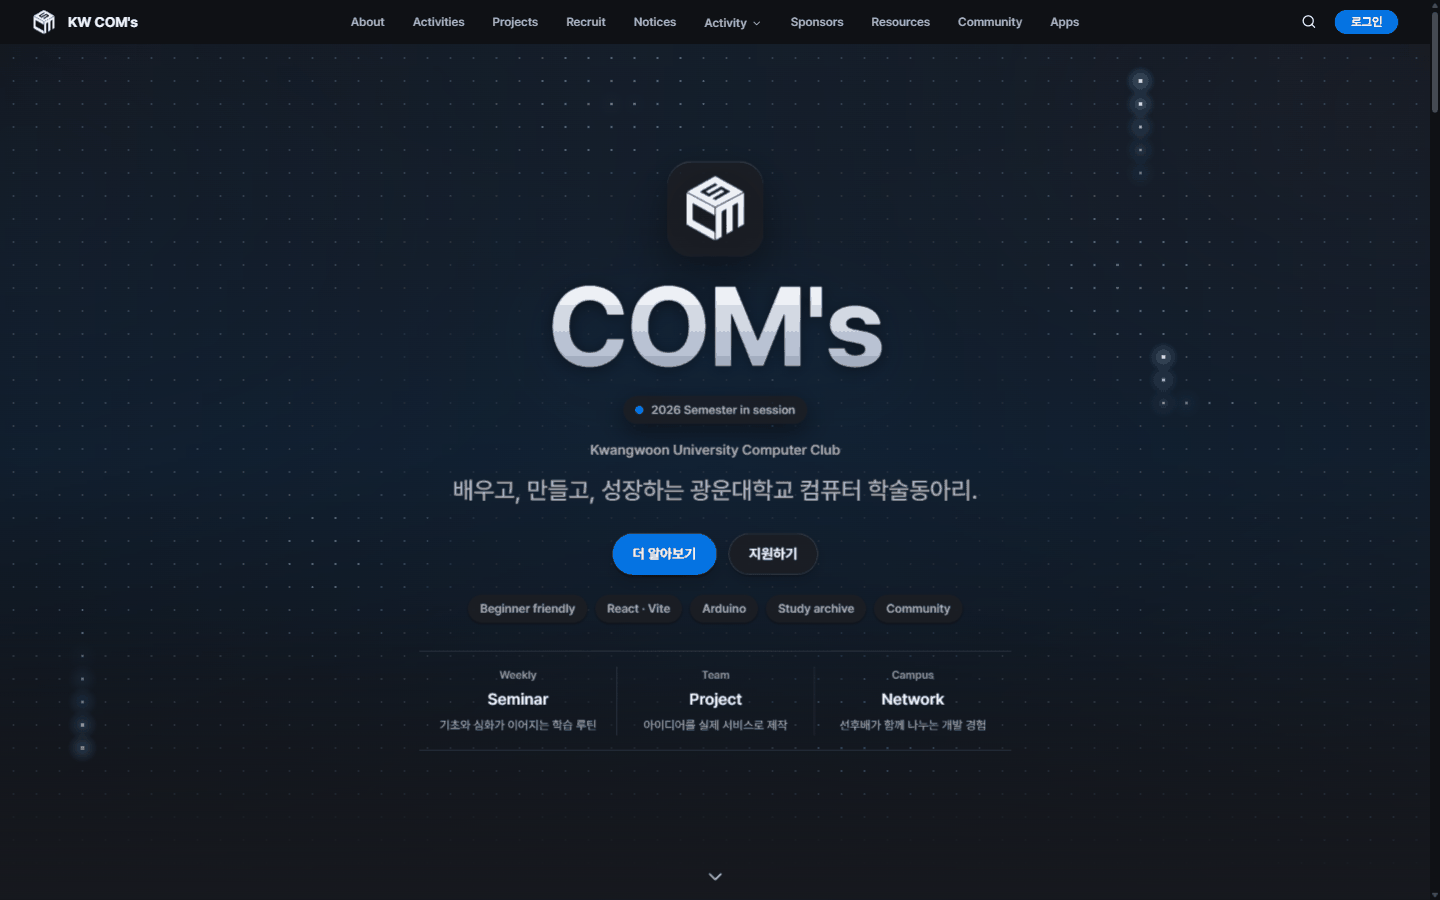
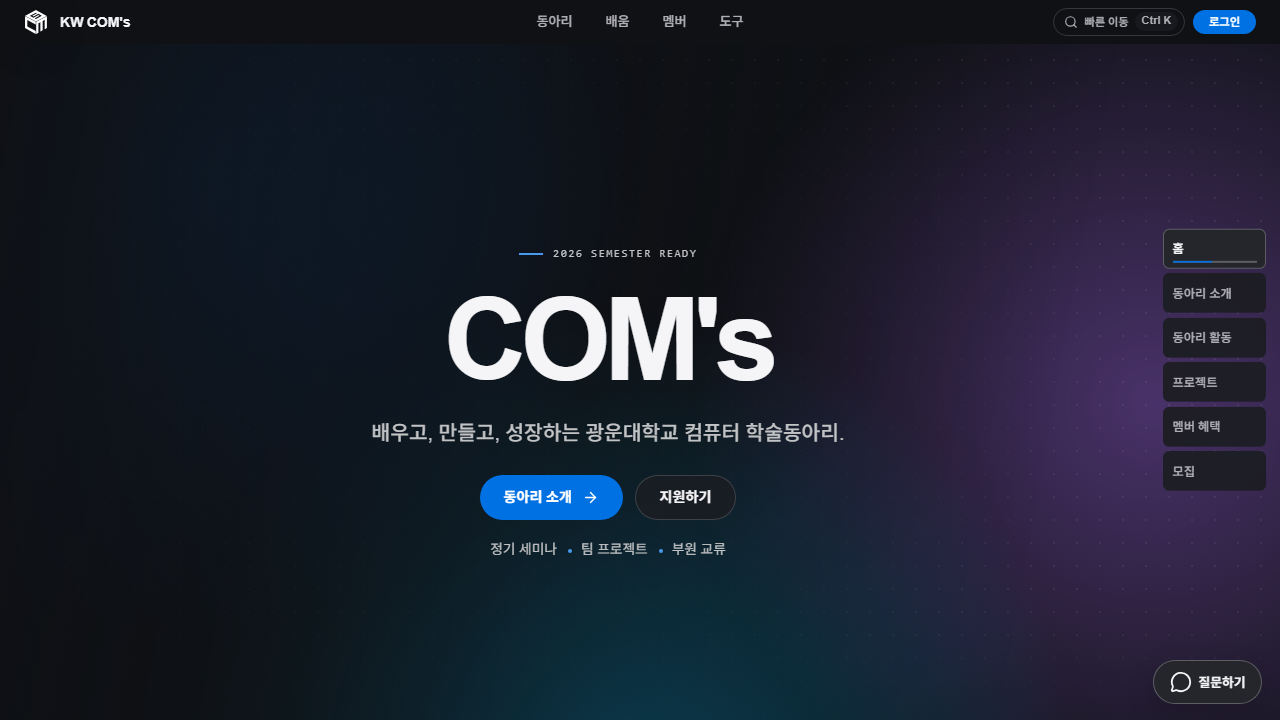
홈의 장면 전환과 README 정리

diff --git a/src/styles/home-atmosphere.css b/src/styles/home-atmosphere.css
@@ -214,14 +214,13 @@
 
 .scene-bg__wash {
 	position: absolute;
-	inset: -14vh 0;
+	inset: 0;
 	background: linear-gradient(
 		180deg,
 		color-mix(in srgb, var(--m-prev) var(--cine-wash), transparent) 0%,
 		color-mix(in srgb, var(--m-me) calc(var(--cine-wash) * 1.4), transparent) 50%,
 		color-mix(in srgb, var(--m-next) var(--cine-wash), transparent) 100%
 	);
-	transform: translate3d(0, calc((var(--p, 0.5) - 0.5) * -9vh), 0);
 }
 
 .scene-bg__glow {
@@ -236,22 +235,19 @@
 	--g: var(--m-me);
 	left: var(--ax, -20%);
 	top: var(--ay, 6%);
-	transform: translate3d(calc((var(--p, 0.5) - 0.5) * 26vw), calc((var(--p, 0.5) - 0.5) * -34vh), 0);
 }
 
 .scene-bg__glow--b {
 	--g: var(--m-next);
 	right: var(--bx, -24%);
 	bottom: var(--by, 4%);
-	transform: translate3d(calc((var(--p, 0.5) - 0.5) * -22vw), calc((var(--p, 0.5) - 0.5) * 28vh), 0);
 }
 
 .scene-bg__tex {
 	position: absolute;
-	inset: -60px 0;
+	inset: 0;
 	-webkit-mask-image: linear-gradient(180deg, transparent, #000 22%, #000 78%, transparent);
 	mask-image: linear-gradient(180deg, transparent, #000 22%, #000 78%, transparent);
-	transform: translate3d(0, calc((var(--p, 0.5) - 0.5) * 48px), 0);
 	--tex: color-mix(in srgb, var(--app-text) 11%, transparent);
 }
 
@@ -301,7 +297,7 @@
 	--ay: 4%;
 }
 
-/* A giant outlined numeral that drifts against the scroll. */
+/* The outline stays anchored behind the chapter content. */
 .scene-bg__numeral {
 	position: absolute;
 	top: 5vh;
@@ -312,29 +308,38 @@
 	-webkit-text-stroke: 1px color-mix(in srgb, var(--app-text) 10%, transparent);
 	-webkit-mask-image: linear-gradient(180deg, #000 25%, transparent 92%);
 	mask-image: linear-gradient(180deg, #000 25%, transparent 92%);
-	transform: translate3d(0, calc((var(--p, 0.5) - 0.5) * -34vh), 0);
 }
 
 .scene-bg__numeral::before {
 	content: attr(data-n);
 }
 
-/* The recruit finale: an accent wash rises from the bottom as the scene arrives. */
+/* The recruit finale has its own accent wash. */
 .scene-bg--recruit .scene-bg__glow--b {
 	--g: var(--app-accent);
 	right: 5%;
 	bottom: -30vmax;
 	width: 120vmax;
 	opacity: 0.7;
-	transform: translate3d(0, calc((1 - var(--p, 1)) * 34vh), 0);
 }
 
 /* ---- Dividers: large outlined scene names that slide with the scroll ---------------------------------- */
 .scene-divider {
+	position: relative;
 	overflow: hidden;
 	overflow: clip;
 	padding-block: clamp(0.5rem, 2vw, 1.5rem);
 	border-block: 1px solid var(--app-hairline);
+}
+
+.scene-divider::after {
+	content: '';
+	position: absolute;
+	inset: 0 0 auto;
+	height: 2px;
+	background: linear-gradient(calc(var(--dir) * 90deg), var(--app-accent), transparent 52%);
+	opacity: 0.36;
+	pointer-events: none;
 }
 
 .scene-divider__text {
@@ -342,13 +347,51 @@
 	white-space: nowrap;
 	font: 800 clamp(4.5rem, 13vw, 12rem) / 1.05 var(--apple-font-family);
 	letter-spacing: -0.04em;
-	transform: translate3d(calc(-36vw + (var(--p, 0.5) - 0.5) * var(--dir) * 70vw), 0, 0);
+	transform: translate3d(calc(-18vw + (var(--p, 0.5) - 0.5) * var(--dir) * 32vw), 0, 0);
 }
 
 .scene-divider__text::before {
 	content: attr(data-t);
 	color: transparent;
 	-webkit-text-stroke: 1px color-mix(in srgb, var(--app-text) 30%, transparent);
+}
+
+/* A chapter announces itself briefly, then its background stays still. */
+@media (prefers-reduced-motion: no-preference) {
+	:root:not([data-perf='lite']) .cine-ready .scene .cine-lines.scene-title .cine-m > span {
+		transform: translateY(9px);
+		transition-duration: 360ms;
+		transition-delay: calc(var(--i, 0) * 45ms);
+	}
+
+	:root:not([data-perf='lite']) .cine-ready .scene .cine-lines.scene-title.is-revealed .cine-m > span {
+		transform: none;
+	}
+
+	:root:not([data-perf='lite']) .cine-ready .scene-divider.is-revealed::after {
+		transform-origin: calc(50% - var(--dir) * 50%) center;
+		animation: chapter-divider-entry 360ms var(--cine-ease) both;
+	}
+
+	:root:not([data-perf='lite'], [data-appearance-theme='retro']) .cine-ready .scene.is-onscreen > .scene-bg::after {
+		content: '';
+		position: absolute;
+		inset: 0 0 auto;
+		height: clamp(7rem, 22vh, 12rem);
+		background: linear-gradient(180deg, color-mix(in srgb, var(--m-me) 18%, transparent), transparent);
+		animation: chapter-backdrop-entry 600ms ease-out both;
+	}
+}
+
+@keyframes chapter-divider-entry {
+	from { transform: scaleX(0.08); opacity: 0.18; }
+	45% { opacity: 0.9; }
+	to { transform: scaleX(1); opacity: 0.36; }
+}
+
+@keyframes chapter-backdrop-entry {
+	from { opacity: 1; }
+	to { opacity: 0; }
 }
 
 /* ---- Manifesto: the Club OS assembles as it arrives --------------------------------------------------- */
@@ -592,7 +635,7 @@
 }
 
 /* ---- Layers are promoted only while their scene is on screen ----------------------------------------- */
-.cine-ready .is-onscreen :is(.aurora, .floor__plane i, .scene-bg__glow, .scene-bg__numeral, .scene-divider__text, .scene-opening__ticker-run, .scene-recruit__marquee-run) {
+.cine-ready .is-onscreen :is(.aurora, .floor__plane i, .scene-divider__text, .scene-opening__ticker-run, .scene-recruit__marquee-run) {
 	will-change: transform;
 }
 

diff --git a/tests/e2e/home-scenes.spec.js b/tests/e2e/home-scenes.spec.js
@@ -72,6 +72,33 @@ test.describe('a visitor on the home page', () => {
     await expect(rail.getByRole('button', { name: '프로젝트' })).toHaveAttribute('aria-current', 'true')
   })
 
+  test('native wheel scroll reveals a chapter divider and a brief backdrop cue', async ({ page }) => {
+    const divider = page.locator('.scene-divider').first()
+    const about = page.locator('#about')
+    await expect(page.locator('.cine-root.cine-ready #opening h1')).toBeVisible()
+    await page.mouse.move(400, 400)
+    await page.mouse.wheel(0, 670)
+    await expect.poll(() => page.evaluate(() => scrollY)).toBeGreaterThan(450)
+    await expect(divider).toHaveClass(/is-revealed/)
+    await expect.poll(() => divider.evaluate((el) => getComputedStyle(el, '::after').animationName))
+      .toBe('chapter-divider-entry')
+    await expect(about).toHaveClass(/is-onscreen/)
+    const backdrop = about.locator('.scene-bg')
+    await expect.poll(() => backdrop.evaluate((el) => getComputedStyle(el, '::after').animationName)).toBe('chapter-backdrop-entry')
+    await expect.poll(() => backdrop.evaluate((el) => getComputedStyle(el, '::after').animationIterationCount)).toBe('1')
+    await expect.poll(() => backdrop.evaluate((el) => getComputedStyle(el, '::after').opacity)).toBe('0')
+
+    const projects = page.getByRole('navigation', { name: '장면 이동' }).getByRole('button', { name: '프로젝트' })
+    await projects.focus()
+    await page.keyboard.press('Enter')
+    await expect(projects).toHaveAttribute('aria-current', 'true')
+    await expect(projects).toBeFocused()
+
+    await page.emulateMedia({ reducedMotion: 'reduce' })
+    await expect.poll(() => divider.evaluate((el) => getComputedStyle(el, '::after').animationName)).toBe('none')
+    await expect.poll(() => backdrop.evaluate((el) => getComputedStyle(el, '::after').animationName)).toBe('none')
+  })
+
   test('has no horizontal overflow at 1440 and 390', async ({ page }) => {
     for (const [width, height] of [[1440, 900], [390, 844]]) {
       await page.setViewportSize({ width, height })

diff --git a/src/pages/home/HomeView.tsx b/src/pages/home/HomeView.tsx
@@ -6,6 +6,7 @@ import { defaultSiteSettings, getPublicSiteSettings } from '../../services/siteS
 import { scrollToTopInstant } from '../../utils/themeColors'
 import { isFullPageLink } from '../../utils/fullPageLink'
 import { useAuth } from '../../contexts/useAuth'
+import { useCalm } from '../../hooks/useCalm'
 import { useCineReveal, usePointerFx, useSceneProgress } from '../../hooks/useSceneProgress'
 import Opening from './scenes/Opening'
 import Manifesto from './scenes/Manifesto'
@@ -29,6 +30,7 @@ export default function HomeView() {
   const { user } = useAuth()
   const navigate = useNavigate()
   const location = useLocation()
+  const calm = useCalm()
   const member = Boolean(user)
   const latestNoticeQuery = useQuery({
     queryKey: LATEST_NOTICE_QUERY_KEY,
@@ -55,8 +57,7 @@ export default function HomeView() {
     if (!el) return
     const navHeight = Number.parseFloat(getComputedStyle(document.documentElement).getPropertyValue('--apple-nav-height')) || 44
     const targetY = Math.max(0, window.scrollY + el.getBoundingClientRect().top - navHeight - 10)
-    const motion = window.matchMedia('(prefers-reduced-motion: reduce)')
-    window.scrollTo({ top: targetY, behavior: motion.matches ? 'instant' : 'smooth' })
+    window.scrollTo({ top: targetY, behavior: calm ? 'instant' : 'smooth' })
   }
 
   const goPageTop = (to: To, options?: NavigateOptions) => {
@@ -142,7 +143,7 @@ export default function HomeView() {
           </Fragment>
         ))}
       </main>
-      <SceneRail items={railItems} />
+      <SceneRail items={railItems} calm={calm} />
     </div>
   )
 }

diff --git a/src/pages/home/scenes/SceneRail.tsx b/src/pages/home/scenes/SceneRail.tsx
@@ -4,7 +4,7 @@ import { onSceneFrame } from '../../../hooks/useSceneProgress'
 export type RailItem = { id: string; label: string }
 
 // The labeled chapter index follows the scene at the middle of a wide screen.
-export default function SceneRail({ items }: { items: RailItem[] }) {
+export default function SceneRail({ items, calm }: { items: RailItem[]; calm: boolean }) {
   const [active, setActive] = useState(items[0]?.id ?? '')
   const nav = useRef<HTMLElement | null>(null)
   const key = items.map((item) => item.id).join('|')
@@ -37,8 +37,7 @@ export default function SceneRail({ items }: { items: RailItem[] }) {
   }, [key])
 
   const go = (id: string) => {
-    const reduced = window.matchMedia('(prefers-reduced-motion: reduce)').matches
-    document.getElementById(id)?.scrollIntoView({ behavior: reduced ? 'auto' : 'smooth', block: 'start' })
+    document.getElementById(id)?.scrollIntoView({ behavior: calm ? 'instant' : 'smooth', block: 'start' })
   }
 
   return (

diff --git a/src/pages/home/scenes/Divider.tsx b/src/pages/home/scenes/Divider.tsx
@@ -4,7 +4,7 @@ import { cssVars } from './cssVars'
 export default function Divider({ name, dir }: { name: string; dir: 1 | -1 }) {
   const text = Array.from({ length: 6 }, () => name).join('   —   ')
   return (
-    <div className="scene-divider" data-scene="divider" aria-hidden="true" style={cssVars({ '--dir': dir })}>
+    <div className="scene-divider" data-scene="divider" data-chapter-divider aria-hidden="true" style={cssVars({ '--dir': dir })}>
       <span className="scene-divider__text" data-t={text} />
     </div>
   )

diff --git a/src/hooks/useSceneProgress.ts b/src/hooks/useSceneProgress.ts
@@ -160,7 +160,7 @@ export function useSceneProgress() {
   }, [])
 }
 
-const REVEAL = '.cine-lines:not([data-cine-hold]), .cine-wipe, [data-cine]:not([data-cine-hold]), [data-rule]'
+const REVEAL = '.cine-lines:not([data-cine-hold]), .cine-wipe, [data-cine]:not([data-cine-hold]), [data-rule], [data-chapter-divider]'
 
 /**
  * Marks `.cine-root` ready (hidden states only apply once this ran, so the page reads without

diff --git a/backend/src/main/java/com/coms/backend/config/SecurityConfig.java b/backend/src/main/java/com/coms/backend/config/SecurityConfig.java
@@ -114,8 +114,9 @@ public class SecurityConfig {
                 // 회장이 조정하는 권한(site_settings.edit / activity.write / project.write)로 열리는
                 // 관리 경로 — 로그인 경계만 URL 에 두고, 직급 판정은 컨트롤러의 @perm.has 가 맡는다.
                 auth.requestMatchers("/api/admin/site-settings", "/api/admin/club-room", "/api/admin/club-activity-categories/**",
-                        "/api/admin/club-project-categories/**", "/api/admin/recurring-schedules/**",
-                        "/api/admin/opportunities", "/api/admin/opportunities/**").authenticated();
+                        "/api/admin/club-project-categories/**", "/api/admin/recurring-schedules/**").authenticated();
+                // The controller enforces activity.write for every review and collection action.
+                auth.requestMatchers("/api/admin/opportunities", "/api/admin/opportunities/**").authenticated();
                 // community.moderate 권한으로 열리는 중재 화면(신고, 삭제 보관함).
                 auth.requestMatchers("/api/admin/community/**").authenticated();
                 auth.requestMatchers("/api/admin/**").hasRole("ADMIN");
